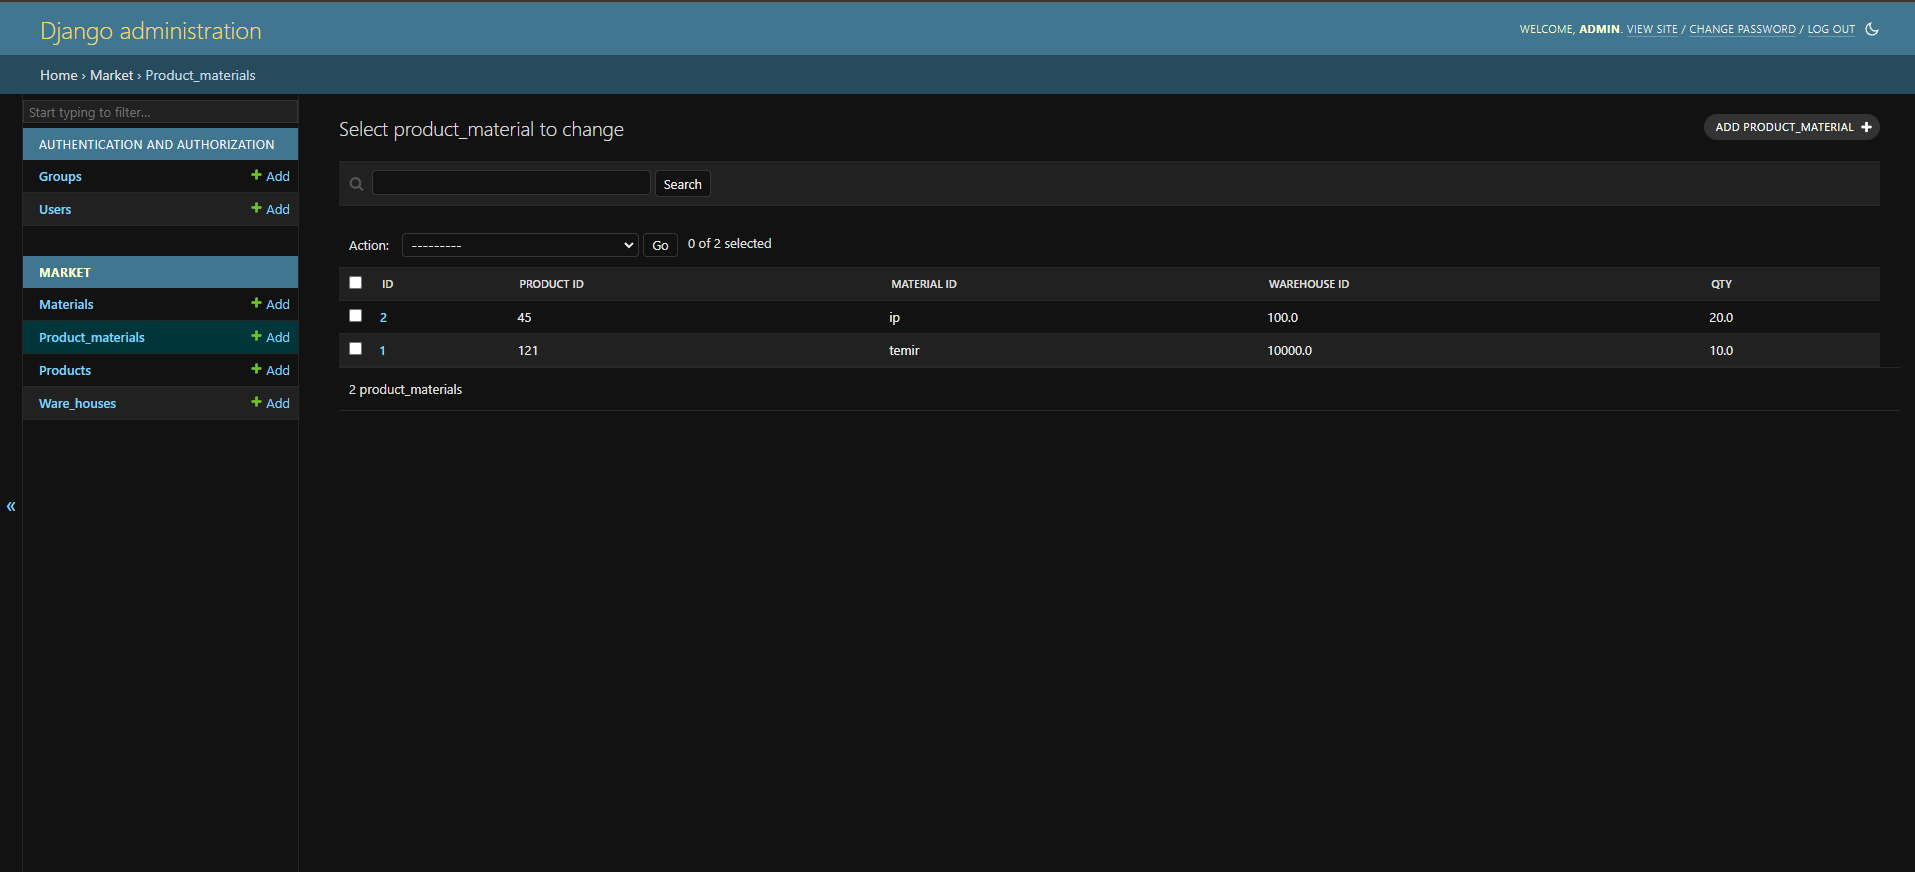
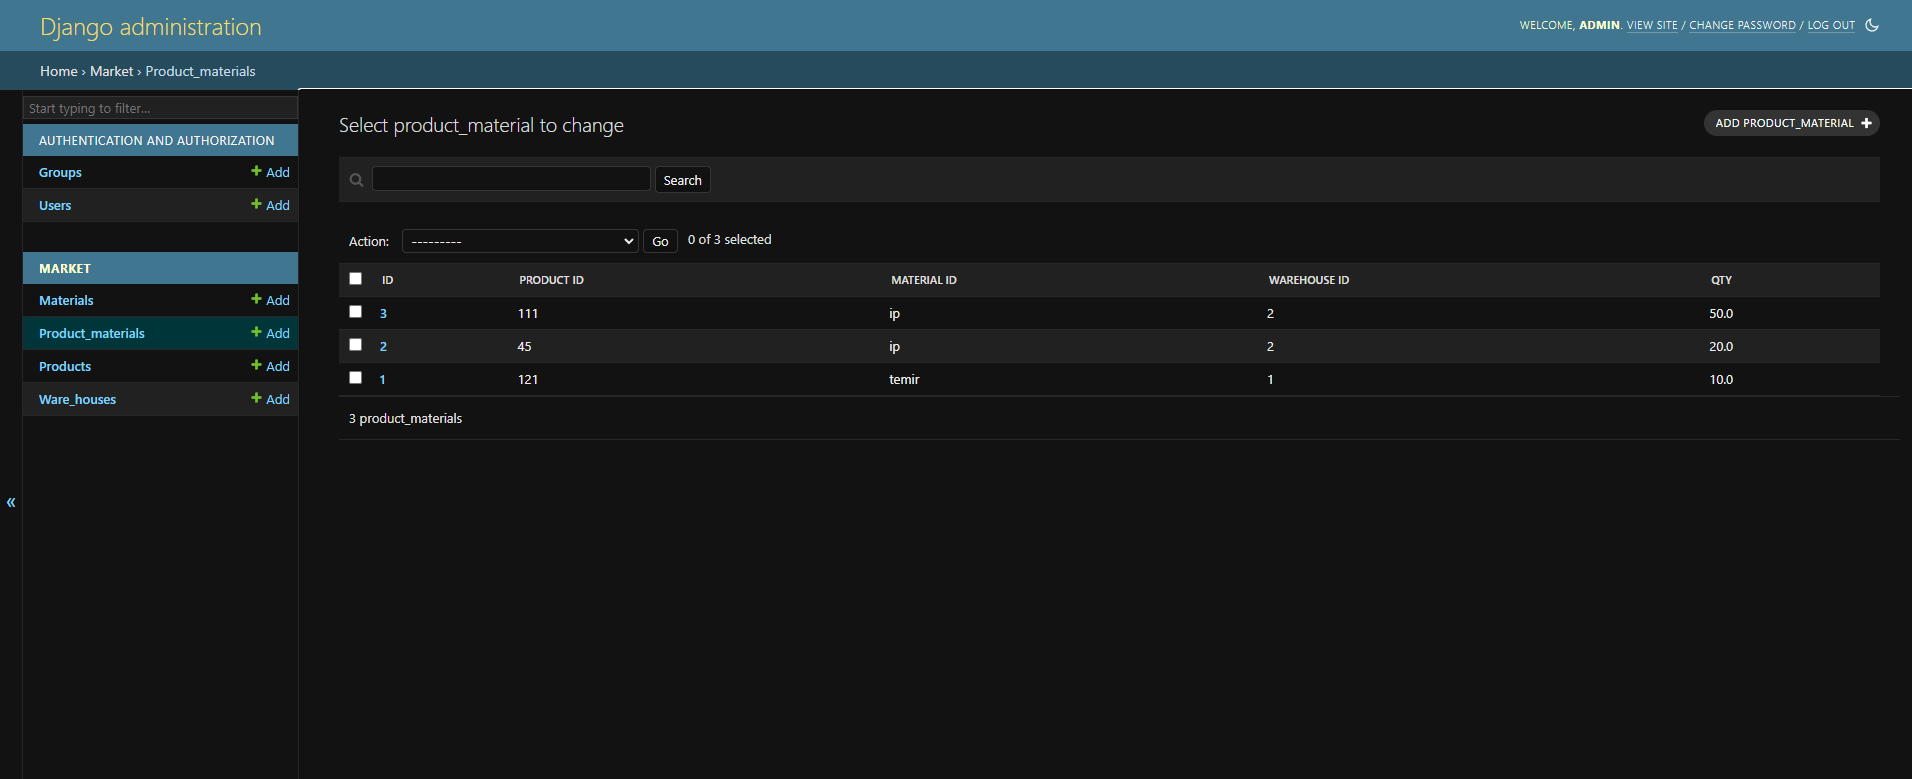
dev-branch

diff --git a/market/models.py b/market/models.py
@@ -30,7 +30,7 @@ class WareHouses(models.Model):
     price = models.FloatField()
 
     def __str__(self):
-        return str(self.remainder)
+        return str(self.id)
 
     class Meta:
         verbose_name = "ware_house"
@@ -43,7 +43,7 @@ class Product_Materials(models.Model):
     qty = models.FloatField()
 
     def __str__(self):
-        return str(self.qty)
+        return str(self.id)
 
     class Meta:
         verbose_name = "product_material"
